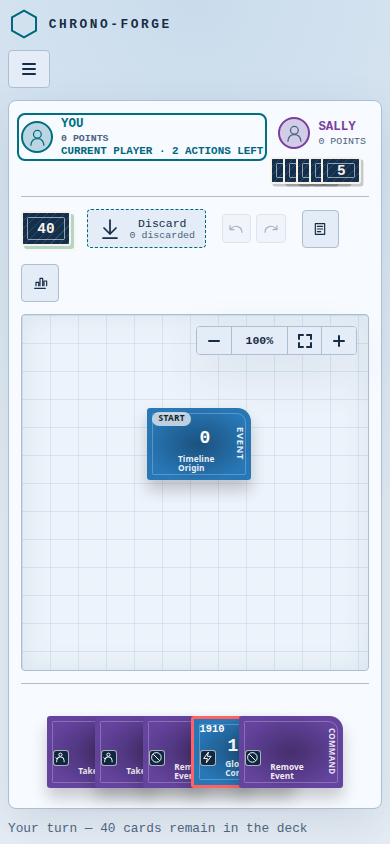
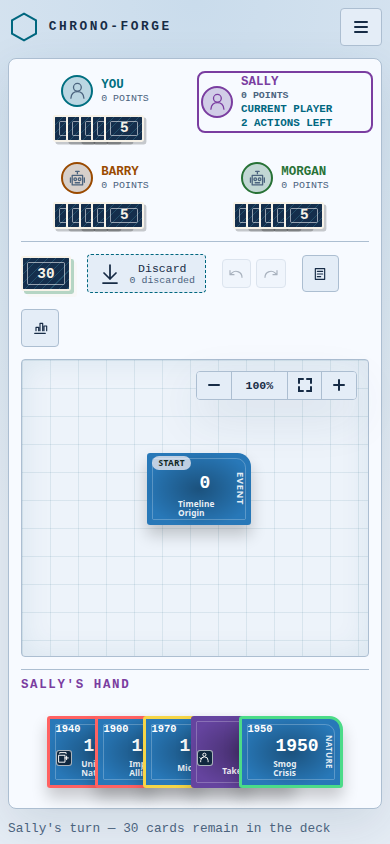
fix(ui): stack turn status and align mobile menu
Stack the current-player label above the remaining action count.
Keep the menu beside the logo on mobile.

Changed region(s): [[0.0, 0.0, 0.9846, 0.6469], [0.0308, 0.7701, 0.9538, 0.9858], [0.7077, 0.3081, 0.7385, 0.3389]]

diff --git a/src/components/GameBoardPlayers.tsx b/src/components/GameBoardPlayers.tsx
@@ -56,13 +56,21 @@ export function GameBoardPlayers({
                   />
                 </span>
                 {activeOwner === handOwner && !finished && (
-                  <span className={gameBoardStyles.playerTurn}>
-                    <FormattedMessage
-                      defaultMessage="Current player · {count, plural, one {# action left} other {# actions left}}"
-                      id="turn.remaining"
-                      values={{ count: Math.max(0, 2 - actionsThisTurn) }}
-                    />
-                  </span>
+                  <div className={gameBoardStyles.playerTurn}>
+                    <span>
+                      <FormattedMessage
+                        defaultMessage="Current player"
+                        id="turn.currentPlayer"
+                      />
+                    </span>
+                    <span>
+                      <FormattedMessage
+                        defaultMessage="{count, plural, one {# action left} other {# actions left}}"
+                        id="turn.actionsLeft"
+                        values={{ count: Math.max(0, 2 - actionsThisTurn) }}
+                      />
+                    </span>
+                  </div>
                 )}
               </div>
             </div>

diff --git a/src/components/ComputerPlayer.tsx b/src/components/ComputerPlayer.tsx
@@ -63,13 +63,21 @@ export function ComputerPlayer({
             />
           </span>
           {active && (
-            <span className={computerPlayerStyles.playerTurn}>
-              <FormattedMessage
-                defaultMessage="Current player · {count, plural, one {# action left} other {# actions left}}"
-                id="turn.remaining"
-                values={{ count: Math.max(0, 2 - actionsThisTurn) }}
-              />
-            </span>
+            <div className={computerPlayerStyles.playerTurn}>
+              <span>
+                <FormattedMessage
+                  defaultMessage="Current player"
+                  id="turn.currentPlayer"
+                />
+              </span>
+              <span>
+                <FormattedMessage
+                  defaultMessage="{count, plural, one {# action left} other {# actions left}}"
+                  id="turn.actionsLeft"
+                  values={{ count: Math.max(0, 2 - actionsThisTurn) }}
+                />
+              </span>
+            </div>
           )}
         </div>
       </div>

diff --git a/src/components/ComputerPlayer.test.tsx b/src/components/ComputerPlayer.test.tsx
@@ -34,7 +34,23 @@ describe(ComputerPlayer, () => {
       .element(page.getByText('3 points', { exact: true }))
       .toBeInTheDocument();
     await expect
-      .element(page.getByText('Current player · 1 action left'))
+      .element(
+        page.getByCSS(
+          '[data-player-score="1"][data-current-turn="true"] > div > div > div > span:first-child',
+        ),
+      )
+      .toBeInTheDocument();
+    await expect
+      .element(
+        page.getByCSS(
+          '[data-player-score="1"][data-current-turn="true"] > div > div > div > span:nth-child(2)',
+        ),
+      )
+      .toHaveTextContent('1 action left');
+    await expect
+      .element(
+        page.getByCSS('[data-player-score="1"] [aria-label="2 cards in hand"]'),
+      )
       .toBeInTheDocument();
     expect(page.getByLabelText('2 cards in hand')).toHaveLength(1);
     await expect

diff --git a/src/App.test.tsx b/src/App.test.tsx
@@ -81,10 +81,17 @@ describe(App, () => {
     await expect
       .element(
         page.getByCSS(
-          '[data-player-score="0"][data-current-turn="true"] > div > span:nth-of-type(2)',
+          '[data-player-score="0"][data-current-turn="true"] > div > div > span:first-child',
         ),
       )
-      .toHaveTextContent('Current player · 2 actions left');
+      .toHaveTextContent('Current player');
+    await expect
+      .element(
+        page.getByCSS(
+          '[data-player-score="0"][data-current-turn="true"] > div > div > span:nth-child(2)',
+        ),
+      )
+      .toHaveTextContent('2 actions left');
     expect(
       page.getByCSS(
         '[data-player-row] > [data-player-score="0"] + [data-player-score="1"]',

diff --git a/src/GameBoard.module.css b/src/GameBoard.module.css
@@ -314,8 +314,10 @@
 
 .player-turn {
   color: var(--accent-text);
+  display: grid;
   font-size: 0.68rem;
   font-weight: 800;
+  gap: 0.1rem;
   white-space: nowrap;
 }
 
@@ -349,7 +351,6 @@
   }
 
   .game-brand {
-    flex-basis: 100%;
     font-size: 0.8rem;
   }
 
@@ -367,6 +368,14 @@
     flex-wrap: wrap;
     padding-top: 0;
     width: 100%;
+  }
+
+  .opponent-hand {
+    flex-wrap: wrap;
+  }
+
+  .opponent-hand > [data-player-score] {
+    flex: 1 1 calc(50% - 0.375rem);
   }
 
   .history-controls > button[data-icon-button] {

diff --git a/src/components/ComputerPlayer.module.css b/src/components/ComputerPlayer.module.css
@@ -43,8 +43,10 @@
 
 .identity .player-turn {
   color: var(--accent-text);
+  display: grid;
   font-size: 0.68rem;
   font-weight: 800;
+  gap: 0.1rem;
 }
 
 .hidden-cards {
